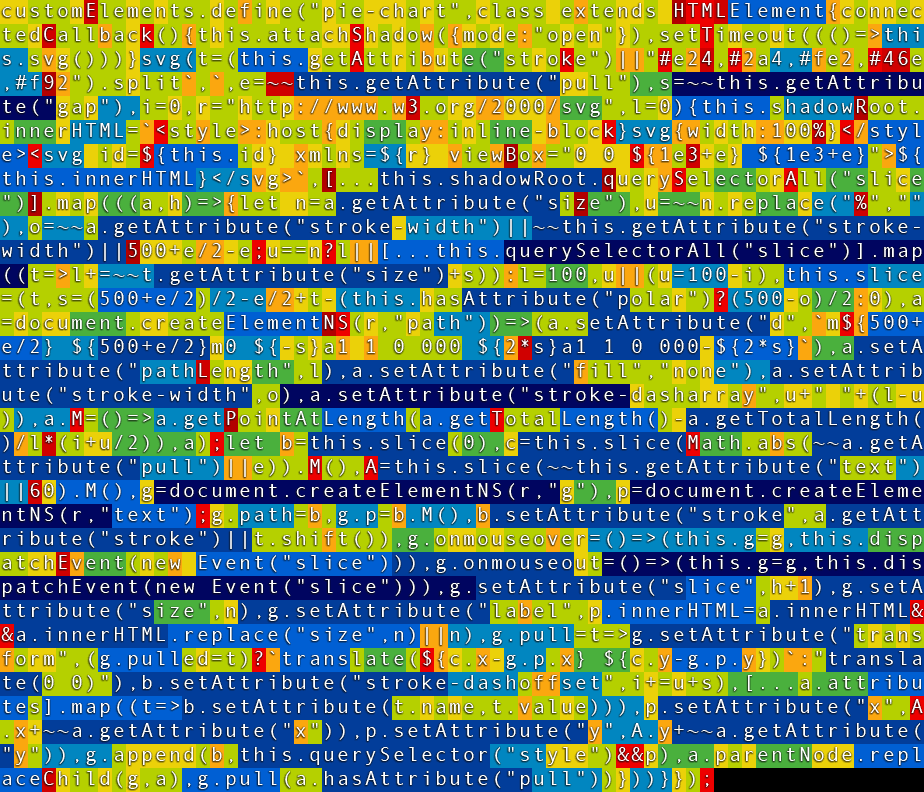
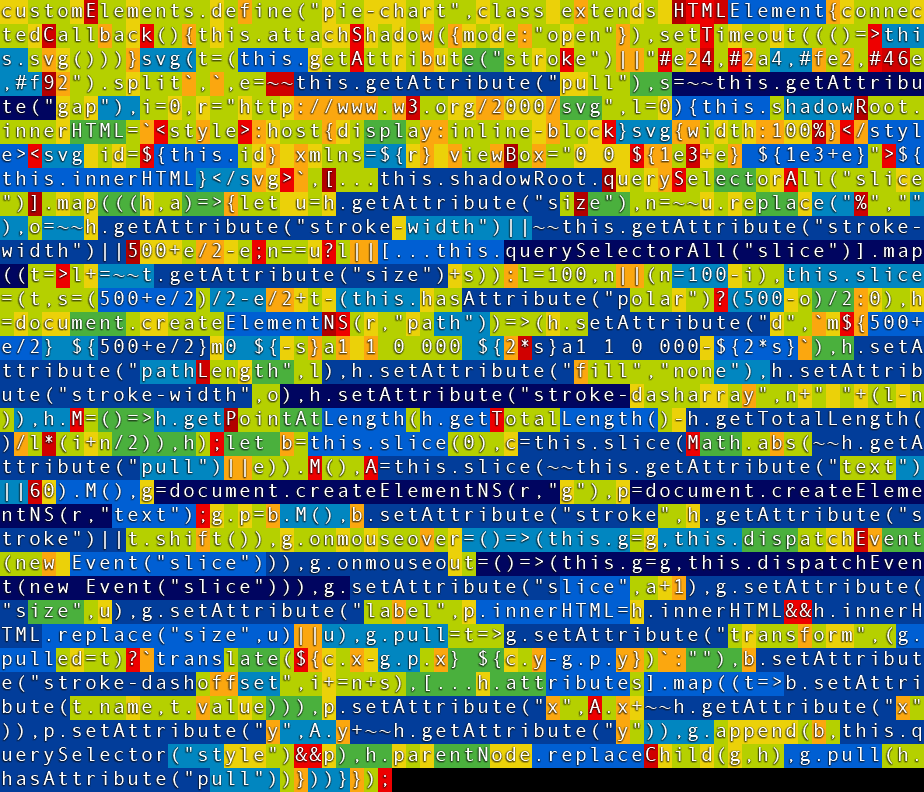
s1006

diff --git a/elements.pie-meister.min.js b/elements.pie-meister.min.js
@@ -1,1 +1,1 @@
-customElements.define("pie-chart",class extends HTMLElement{connectedCallback(){this.attachShadow({mode:"open"}),setTimeout((()=>this.svg()))}svg(t=(this.getAttribute("stroke")||"#e24,#2a4,#fe2,#46e,#f92").split`,`,e=~~this.getAttribute("pull"),s=~~this.getAttribute("gap"),i=0,r="http://www.w3.org/2000/svg",l=0){this.shadowRoot.innerHTML=`<style>:host{display:inline-block}svg{width:100%}</style><svg id=${this.id} xmlns=${r} viewBox="0 0 ${1e3+e} ${1e3+e}">${this.innerHTML}</svg>`,[...this.shadowRoot.querySelectorAll("slice")].map(((a,h)=>{let n=a.getAttribute("size"),u=~~n.replace("%",""),o=~~a.getAttribute("stroke-width")||~~this.getAttribute("stroke-width")||500+e/2-e;u==n?l||[...this.querySelectorAll("slice")].map((t=>l+=~~t.getAttribute("size")+s)):l=100,u||(u=100-i),this.slice=(t,s=(500+e/2)/2-e/2+t-(this.hasAttribute("polar")?(500-o)/2:0),a=document.createElementNS(r,"path"))=>(a.setAttribute("d",`m${500+e/2} ${500+e/2}m0 ${-s}a1 1 0 000 ${2*s}a1 1 0 000-${2*s}`),a.setAttribute("pathLength",l),a.setAttribute("fill","none"),a.setAttribute("stroke-width",o),a.setAttribute("stroke-dasharray",u+" "+(l-u)),a.M=()=>a.getPointAtLength(a.getTotalLength()-a.getTotalLength()/l*(i+u/2)),a);let b=this.slice(0),c=this.slice(Math.abs(~~a.getAttribute("pull")||e)).M(),A=this.slice(~~this.getAttribute("text")||60).M(),g=document.createElementNS(r,"g"),p=document.createElementNS(r,"text");g.path=b,g.p=b.M(),b.setAttribute("stroke",a.getAttribute("stroke")||t.shift()),g.onmouseover=()=>(this.g=g,this.dispatchEvent(new Event("slice"))),g.onmouseout=()=>(this.g=g,this.dispatchEvent(new Event("slice"))),g.setAttribute("slice",h+1),g.setAttribute("size",n),g.setAttribute("label",p.innerHTML=a.innerHTML&&a.innerHTML.replace("size",n)||n),g.pull=t=>g.setAttribute("transform",(g.pulled=t)?`translate(${c.x-g.p.x} ${c.y-g.p.y})`:"translate(0 0)"),b.setAttribute("stroke-dashoffset",i+=u+s),[...a.attributes].map((t=>b.setAttribute(t.name,t.value))),p.setAttribute("x",A.x+~~a.getAttribute("x")),p.setAttribute("y",A.y+~~a.getAttribute("y")),g.append(b,this.querySelector("style")&&p),a.parentNode.replaceChild(g,a),g.pull(a.hasAttribute("pull"))}))}});
+customElements.define("pie-chart",class extends HTMLElement{connectedCallback(){this.attachShadow({mode:"open"}),setTimeout((()=>this.svg()))}svg(t=(this.getAttribute("stroke")||"#e24,#2a4,#fe2,#46e,#f92").split`,`,e=~~this.getAttribute("pull"),s=~~this.getAttribute("gap"),i=0,r="http://www.w3.org/2000/svg",l=0){this.shadowRoot.innerHTML=`<style>:host{display:inline-block}svg{width:100%}</style><svg id=${this.id} xmlns=${r} viewBox="0 0 ${1e3+e} ${1e3+e}">${this.innerHTML}</svg>`,[...this.shadowRoot.querySelectorAll("slice")].map(((h,a)=>{let u=h.getAttribute("size"),n=~~u.replace("%",""),o=~~h.getAttribute("stroke-width")||~~this.getAttribute("stroke-width")||500+e/2-e;n==u?l||[...this.querySelectorAll("slice")].map((t=>l+=~~t.getAttribute("size")+s)):l=100,n||(n=100-i),this.slice=(t,s=(500+e/2)/2-e/2+t-(this.hasAttribute("polar")?(500-o)/2:0),h=document.createElementNS(r,"path"))=>(h.setAttribute("d",`m${500+e/2} ${500+e/2}m0 ${-s}a1 1 0 000 ${2*s}a1 1 0 000-${2*s}`),h.setAttribute("pathLength",l),h.setAttribute("fill","none"),h.setAttribute("stroke-width",o),h.setAttribute("stroke-dasharray",n+" "+(l-n)),h.M=()=>h.getPointAtLength(h.getTotalLength()-h.getTotalLength()/l*(i+n/2)),h);let b=this.slice(0),c=this.slice(Math.abs(~~h.getAttribute("pull")||e)).M(),A=this.slice(~~this.getAttribute("text")||60).M(),g=document.createElementNS(r,"g"),p=document.createElementNS(r,"text");g.p=b.M(),b.setAttribute("stroke",h.getAttribute("stroke")||t.shift()),g.onmouseover=()=>(this.g=g,this.dispatchEvent(new Event("slice"))),g.onmouseout=()=>(this.g=g,this.dispatchEvent(new Event("slice"))),g.setAttribute("slice",a+1),g.setAttribute("size",u),g.setAttribute("label",p.innerHTML=h.innerHTML&&h.innerHTML.replace("size",u)||u),g.pull=t=>g.setAttribute("transform",(g.pulled=t)?`translate(${c.x-g.p.x} ${c.y-g.p.y})`:""),b.setAttribute("stroke-dashoffset",i+=n+s),[...h.attributes].map((t=>b.setAttribute(t.name,t.value))),p.setAttribute("x",A.x+~~h.getAttribute("x")),p.setAttribute("y",A.y+~~h.getAttribute("y")),g.append(b,this.querySelector("style")&&p),h.parentNode.replaceChild(g,h),g.pull(h.hasAttribute("pull"))}))}});

diff --git a/elements.pie-meister.js b/elements.pie-meister.js
@@ -80,27 +80,39 @@ customElements.define(
           path.setAttribute("fill", "none"), 
           path.setAttribute("stroke-width", strokeWidth), // radius size
           path.setAttribute("stroke-dasharray", sliceSize + " " + (pathlength - sliceSize)),
+          
+          
           // stick .M method on path to get a Point position x,y later
+          // function returns the middle of the slice arc
+          // becuase the method is defined within! each slice scope all variables for that one slice can be used
+          // a 'global' method would require everything as function parameters
+          // this takes more memory (who cares about memory when the full library is 1K?)
+          // is only slower when you do over a million calls (that is 1000 pies with 1000 slices each)
+          // only Mr Creosote (see Youtube) can eat that many pies
           (path.M = () =>
             path.getPointAtLength(
               path.getTotalLength() - (path.getTotalLength() / pathlength) * (dashoffset + sliceSize / 2)
             )),
-          // return path
+          // return path, so it can be added to the slice <g> group
+          // again ... avoiding the use for a 'return' statement .. that is 6 Bytes man!
           path
         );
         // ------------------------------------------------------------------ create SVG slice
         let path = this.slice(0); // path stroke positioning 0 = middle of slice
-        // centerPoint is middle of <path> strokeWidth draws the path
-        // pullPoint used for pull distance, not drawn on SVG
+        
+        // pullPoint used to calculate pull distance in the correct direction, not drawn on SVG
         let pullPoint = this.slice(Math.abs(~~sliceDefinition.getAttribute("pull") || pull)).M();
         // textPoint used for <text> label position calculation, not drawn on SVG
         let textPoint = this.slice(~~this.getAttribute("text") || 60).M();
+        
         // <g> is the slice containing <path> and <text> label
         let group = document.createElementNS(namespace, "g");
         let label = document.createElementNS(namespace, "text");
-
-        group.path = path;
-        //centerPoint
+        
+        // TODO: is it worth to have the path METHOD reference available for the outside world?
+        //group.path = path;
+        // group.p is middle of <path> strokeWidth draws the path
+        //! Calculate center point once! Later calls would use other parameters
         group.p = path.M(); // sliceSize is a variable in scope
 
         // determine color
@@ -126,7 +138,7 @@ customElements.define(
             "transform",
             (group.pulled = state)
               ? `translate(${pullPoint.x - group.p.x} ${pullPoint.y - group.p.y})`
-              : `translate(0 0)`
+              : ``//`translate(0 0)`
           );
         // calculate dashoffset ONCE for each slice
         path.setAttribute("stroke-dashoffset", (dashoffset += sliceSize + gap));
